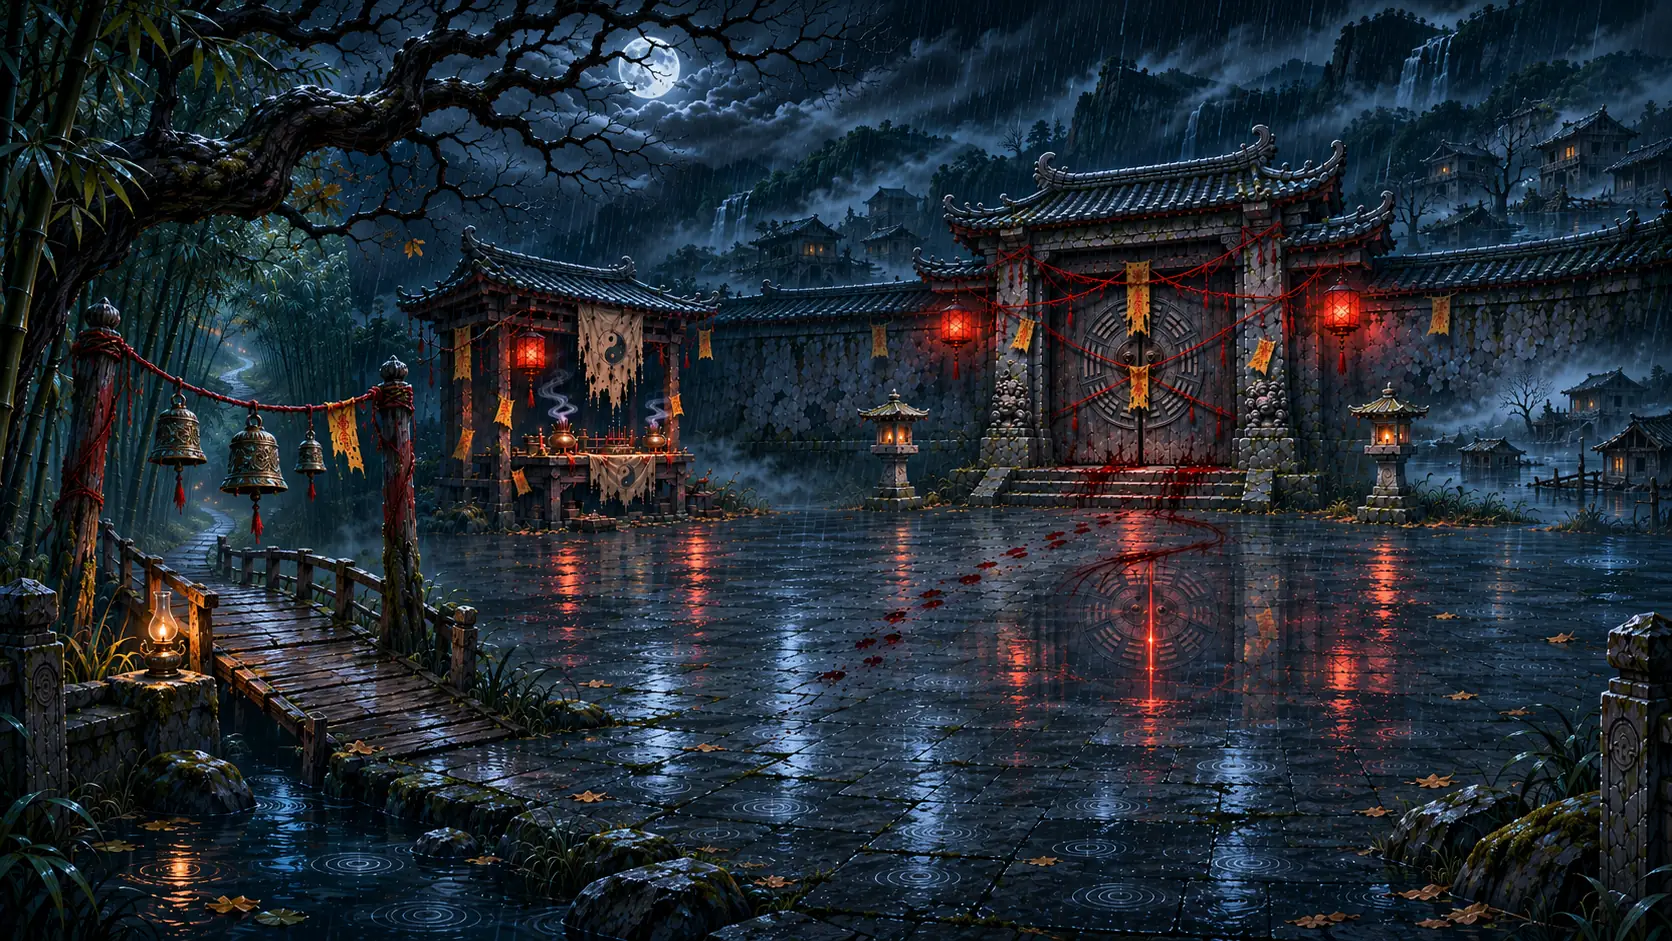
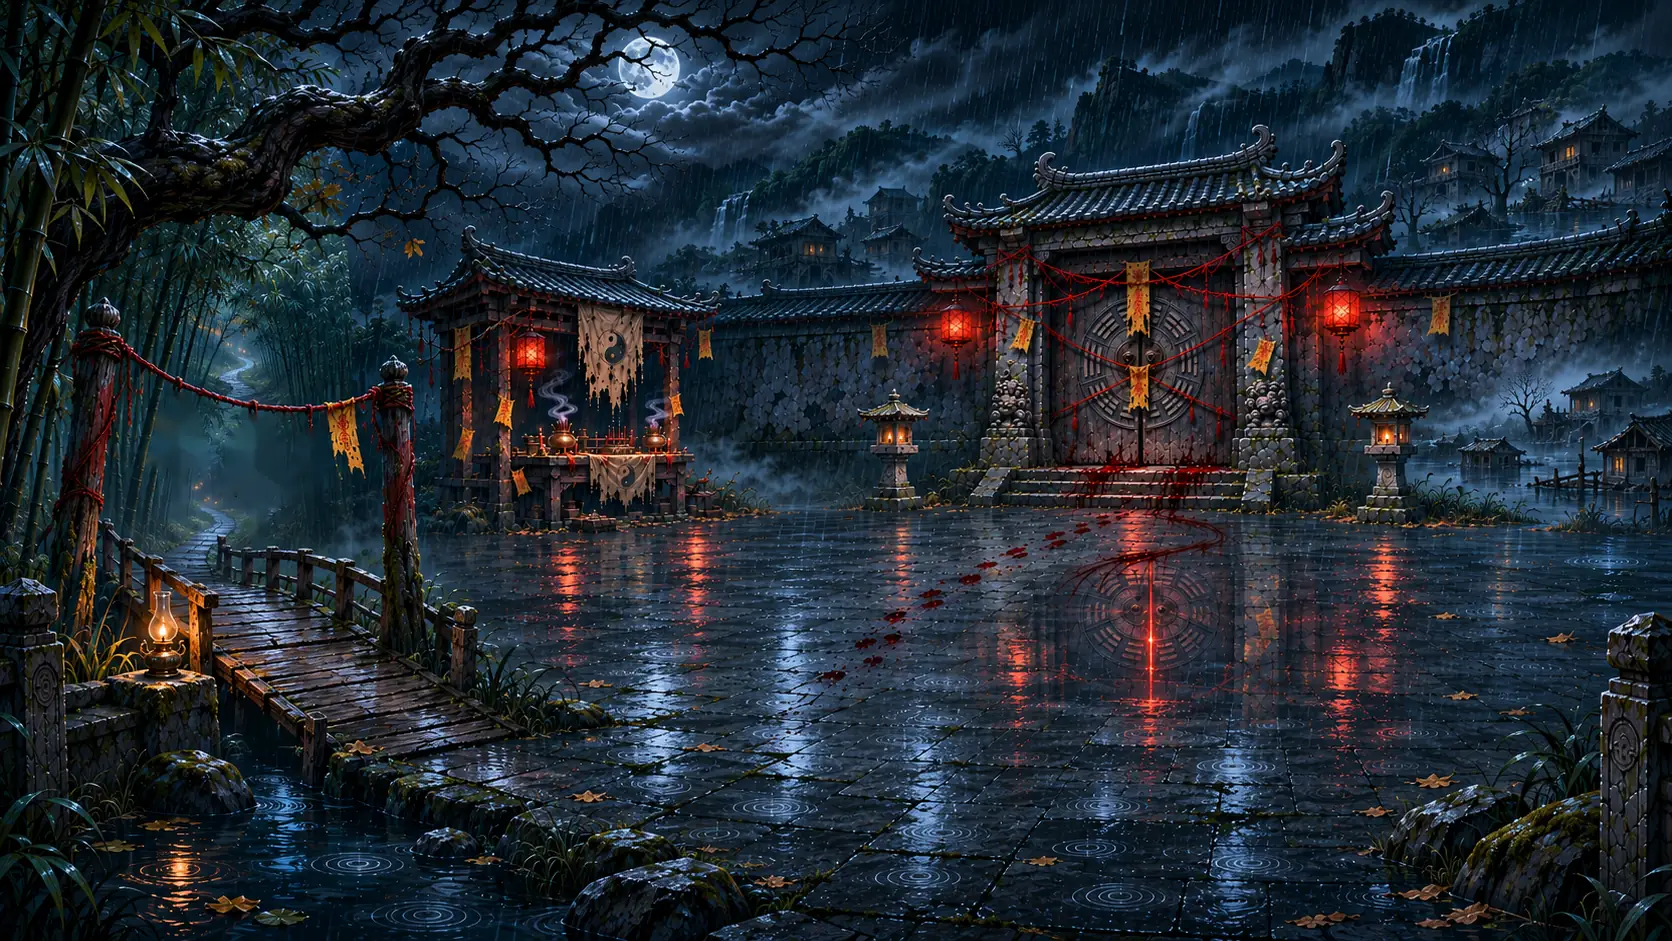
Sanh: chuong rung khi bam Xuat Tran, cua bung + khoi den khi bam Quy Mon Quan

Changed region(s): [[0.0933, 0.4315, 0.2177, 0.5547]]

diff --git a/game/index.html b/game/index.html
@@ -1842,6 +1842,18 @@ html body #lobby .lbgrid.g7>[data-lb=inv]:before,html body #lobby .lbgrid.g7>[da
 html body #lobby .lbgrid.g7>[data-lb=inv]:before{display:none}
 @media (max-height:430px) and (min-width:640px){html body #lobby .lbgrid.lbgrid.g7 .lbt{flex-direction:row!important;gap:8px!important}html body #lobby .lbgrid.g7 .lbt i{font-size:clamp(16px,6vh,26px)!important}html body #lobby .lbgrid.g7 .lbt b{font-size:clamp(9px,3.4vh,13px)!important}}
 @media (max-width:639px){html body #lobby .lbgrid.g7 .lbt i{font-size:16px!important}html body #lobby .lbgrid.g7 .lbt b{font-size:9px!important}}
+/* hiệu ứng cảnh: chuông rung (Xuất Trận), cửa bung + khói đen (Quỷ Môn Quan) */
+#lbStage .lbbell{position:absolute;background:center/100% 100% no-repeat;pointer-events:none;z-index:1;animation:lbidle 4.4s ease-in-out infinite}
+#lbStage .lbbell-c{animation-delay:-1.3s}#lbStage .lbbell-r{animation-delay:-2.6s}
+@keyframes lbidle{0%,100%{transform:rotate(-.7deg)}50%{transform:rotate(.7deg)}}
+@keyframes lbswing{0%{transform:rotate(0)}14%{transform:rotate(10deg)}32%{transform:rotate(-8deg)}50%{transform:rotate(6deg)}68%{transform:rotate(-4deg)}84%{transform:rotate(2deg)}100%{transform:rotate(0)}}
+#lbStage.bring .lbbell-l{animation:lbswing 1.15s ease-out}#lbStage.bring .lbbell-c{animation:lbswing 1.3s ease-out .06s}#lbStage.bring .lbbell-r{animation:lbswing .95s ease-out .12s}
+#lbStage .lbdin{position:absolute;left:62.9%;top:27.5%;width:10.9%;height:21.9%;z-index:1;pointer-events:none;background:radial-gradient(ellipse at 50% 105%,#4a0c10 0,#12060a 38%,#030204 75%)}
+#lbStage .lbleaf{position:absolute;inset:0;z-index:1;pointer-events:none;background:url(assets/ui/lobby/sanh.webp) 0 0/100% 100% no-repeat;transition:transform .55s cubic-bezier(.2,.85,.25,1)}
+#lbStage .lbleaf-l{clip-path:polygon(62.9% 27.5%,68.1% 27.5%,68.1% 49.4%,62.9% 49.4%);transform-origin:62.9% 38%}
+#lbStage .lbleaf-r{clip-path:polygon(68.1% 27.5%,73.8% 27.5%,73.8% 49.4%,68.1% 49.4%);transform-origin:73.8% 38%}
+#lbStage.dopen .lbleaf-l{transform:scaleX(.7) skewY(-3deg)}#lbStage.dopen .lbleaf-r{transform:scaleX(.7) skewY(3deg)}
+#lbStage #lbFx{position:absolute;inset:0;width:100%;height:100%;z-index:4;pointer-events:none}
 </style>
 </head>
 <body>
@@ -1929,9 +1941,9 @@ html body #lobby .lbgrid.g7>[data-lb=inv]:before{display:none}
 <section id="lobby" class="screen" hidden>
  <div id="lbStage" aria-label="Sảnh Khử Tà Diệt Ma">
   <img id="lbArt" src="assets/ui/lobby/sanh.webp" alt="" draggable="false">
-  <canvas id="lbHero" width="480" height="400" aria-hidden="true"></canvas>
+  <i class="lbbell lbbell-l" style="left:8.672%;top:41.552%;width:3.947%;height:13.496%;transform-origin:51.5% 3.9%;background-image:url(assets/ui/lobby/chuong_l.webp)" aria-hidden="true"></i><i class="lbbell lbbell-c" style="left:12.978%;top:43.783%;width:4.486%;height:14.453%;transform-origin:49.3% 2.9%;background-image:url(assets/ui/lobby/chuong_c.webp)" aria-hidden="true"></i><i class="lbbell lbbell-r" style="left:17.404%;top:45.484%;width:2.333%;height:8.289%;transform-origin:48.7% 6.4%;background-image:url(assets/ui/lobby/chuong_r.webp)" aria-hidden="true"></i><i class="lbdin" aria-hidden="true"></i><i class="lbleaf lbleaf-l" aria-hidden="true"></i><i class="lbleaf lbleaf-r" aria-hidden="true"></i><canvas id="lbHero" width="480" height="400" aria-hidden="true"></canvas><canvas id="lbFx" aria-hidden="true"></canvas>
   <div class="lbsp lbsp-b" id="lbBridge"><button type="button" class="lbz" aria-label="Xuất Trận" title="Xuất Trận: chọn ải"></button><button type="button" class="lbtag">Xuất Trận</button></div>
-  <div class="lbsp lbsp-d" id="lbDoor"><i class="lbtal" aria-hidden="true"></i><button type="button" class="lbz lbt" data-lb="amgioi" aria-label="Quỷ Môn Quan" title="Quỷ Môn Quan: Âm Giới"></button><button type="button" class="lbtag lbt" data-lb="amgioi">Quỷ Môn Quan</button></div>
+  <div class="lbsp lbsp-d" id="lbDoor"><i class="lbtal" aria-hidden="true"></i><button type="button" class="lbz" aria-label="Quỷ Môn Quan" title="Quỷ Môn Quan: Âm Giới"></button><button type="button" class="lbtag">Quỷ Môn Quan</button></div>
  </div>
  <canvas id="lbBg" width="640" height="400"></canvas>
  <div class="lb">
@@ -5110,10 +5122,28 @@ function lbStageFit(){const L=$('#lobby'),st=$('#lbStage');if(!L||!st||L.hidden)
  const target=vh-barH-Math.max(12,vh*0.08);let off=H*0.72-target;off=Math.max(0,Math.min(off,H-vh));
  st.style.width=W+'px';st.style.height=H+'px';st.style.left=((vw-W)/2)+'px';st.style.top=(-off)+'px';st.style.setProperty('--sh',H+'px')}
 if(window.ResizeObserver)new ResizeObserver(lbStageFit).observe($('#lobby'));addEventListener('resize',lbStageFit);setInterval(lbStageFit,1000);
-(function(){const hot=(el,on)=>el.classList.toggle('hot',on);
+/* hiệu ứng canvas #lbFx: sóng chuông + tia vàng (cầu), khói đen tràn từ cửa (cổng) */
+const LBFX={p:[],on:0,t:0};
+function lbFxSize(){const c=$('#lbFx'),st=$('#lbStage');if(!c||!st)return null;const w=Math.min(1600,Math.max(320,st.clientWidth)),h=Math.round(w/LB_AR);if(c.width!==w||c.height!==h){c.width=w;c.height=h}return {c,w,h,k:w/1672}}
+function lbFxLoop(now){const z=lbFxSize();if(!z)return;const dt=Math.min(.05,(now-LBFX.t)/1000||.016);LBFX.t=now;const g=z.c.getContext('2d');g.clearRect(0,0,z.w,z.h);
+ LBFX.p=LBFX.p.filter(p=>(p.a+=dt)<p.life);
+ for(const p of LBFX.p){const u=p.a/p.life;
+  if(p.k==='smoke'){p.x+=p.vx*dt*z.k;p.y+=p.vy*dt*z.k;p.vx*=.992;p.vy*=.985;p.vy+=p.g*dt;const r=(p.r0+(p.r1-p.r0)*Math.min(1,u*1.2))*z.k,al=Math.sin(Math.min(1,u*1.6)*Math.PI*.5)*(1-u)*p.al;if(al<=.003)continue;const gr=g.createRadialGradient(p.x*z.k,p.y*z.k,0,p.x*z.k,p.y*z.k,r);gr.addColorStop(0,`rgba(${p.c},${al})`);gr.addColorStop(.55,`rgba(${p.c},${al*.6})`);gr.addColorStop(1,`rgba(${p.c},0)`);g.fillStyle=gr;g.beginPath();g.arc(p.x*z.k,p.y*z.k,r,0,TAU);g.fill()}
+  else if(p.k==='ring'){if(u<0)continue;const r=(6+p.R*Math.min(1,u))*z.k;g.strokeStyle=`rgba(255,216,120,${(1-u)*.8})`;g.lineWidth=Math.max(1,(2.4-1.4*u)*z.k);g.beginPath();g.arc(p.x*z.k,p.y*z.k,r,0,TAU);g.stroke()}
+  else{p.x+=p.vx*dt;p.y+=p.vy*dt;p.vy+=60*dt;g.fillStyle=`rgba(255,${200+Math.random()*40|0},${110+Math.random()*50|0},${(1-u)*.9})`;g.fillRect(p.x*z.k-1,p.y*z.k-1,Math.max(1.5,2.2*z.k),Math.max(1.5,2.2*z.k))}}
+ if(LBFX.p.length)requestAnimationFrame(lbFxLoop);else{LBFX.on=0;g.clearRect(0,0,z.w,z.h)}}
+function lbFxKick(){if(!LBFX.on){LBFX.on=1;LBFX.t=performance.now();requestAnimationFrame(lbFxLoop)}}
+function lbBellFx(){const lite=LOWFX||MOBILE,bs=[[178,455],[254,455],[310,475]];for(const [x,y] of bs){for(let i=0;i<2;i++)LBFX.p.push({k:'ring',x,y,R:i?46:30,a:-i*.16,life:.85});for(let i=0;i<(lite?5:10);i++)LBFX.p.push({k:'spark',x:x+(Math.random()-.5)*30,y:y+(Math.random()-.5)*20,vx:(Math.random()-.5)*50,vy:-20-Math.random()*40,a:0,life:.7+Math.random()*.6})}lbFxKick()}
+function lbDoorFx(){const lite=LOWFX||MOBILE,n=lite?60:120;
+ /* khói đen lăn từ khe cửa ra bậc đá và sân (lan ngang là chính, bốc lên nhẹ), kèm vài dải khói tím nhạt cho có khối */
+ for(let i=0;i<n;i++){const side=Math.random()<.5?-1:1,d=Math.random()*.45;LBFX.p.push({k:'smoke',x:1139+(Math.random()-.5)*90,y:410+Math.random()*50,vx:side*(30+Math.random()*120),vy:-(6+Math.random()*26)+(Math.random()<.4?40:0),g:4,r0:24+Math.random()*16,r1:90+Math.random()*90,al:1,c:Math.random()<.3?'30,12,36':'3,2,5',a:-d,life:2.6+Math.random()*1.2})}
+ for(let i=0;i<(lite?8:18);i++)LBFX.p.push({k:'smoke',x:1139+(Math.random()-.5)*80,y:370+Math.random()*80,vx:(Math.random()-.5)*60,vy:-(26+Math.random()*34),g:-6,r0:16,r1:50+Math.random()*40,al:.7,c:'70,40,84',a:-(Math.random()*.8),life:1.8+Math.random()});lbFxKick()}
+(function(){const hot=(el,on)=>el.classList.toggle('hot',on);let busy=0;const st=$('#lbStage');
  for(const id of ['lbBridge','lbDoor']){const el=$('#'+id);if(!el)continue;for(const t of el.querySelectorAll('.lbz,.lbtag')){t.addEventListener('pointerdown',()=>hot(el,true));t.addEventListener('pointerenter',()=>hot(el,true));for(const ev of ['pointerup','pointerleave','pointercancel'])t.addEventListener(ev,()=>hot(el,false))}}
- const go=()=>{hot($('#lbBridge'),true);setTimeout(()=>hot($('#lbBridge'),false),350);$('#lbGo').click()};
- for(const t of $('#lbBridge').querySelectorAll('.lbz,.lbtag'))t.addEventListener('click',go)})();
+ const go=()=>{if(busy)return;busy=1;st.classList.remove('bring');void st.offsetWidth;st.classList.add('bring');lbBellFx();setTimeout(()=>st.classList.remove('bring'),1500);setTimeout(()=>{busy=0;$('#lbGo').click()},720)};
+ const door=()=>{if(busy)return;busy=1;st.classList.add('dopen');lbDoorFx();setTimeout(()=>st.classList.remove('dopen'),2600);setTimeout(()=>{busy=0;const t=document.querySelector('#lbGrid [data-lb="amgioi"]');if(t)t.click()},1250)};
+ for(const t of $('#lbBridge').querySelectorAll('.lbz,.lbtag'))t.addEventListener('click',go);
+ for(const t of $('#lbDoor').querySelectorAll('.lbz,.lbtag'))t.addEventListener('click',door)})();
 $('#lbGear').addEventListener('click',e=>{e.stopPropagation();$('.lbfoot').classList.toggle('open')});
 $('#lobby').addEventListener('click',e=>{const t=e.target.closest('.lbt');if(!t)return;const k=t.dataset.lb;
  if(k==='luyencong'){startTraining();return}

diff --git a/cong_cu/claude/lobby_bells.py b/cong_cu/claude/lobby_bells.py
@@ -1,0 +1,33 @@
+# Tách 3 quả chuông khỏi ảnh nền sảnh (GrabCut) -> sprite RGBA + nền đã lấp chỗ chuông (inpaint). Gốc 1672x941.
+import cv2,numpy as np,sys
+SRC='/home/user/hoathan/nguon/master_amgioi/sanh_cau_go_cong_bat_quai_goc.png';OUT='/home/user/hoathan/nguon/lobby_anim/'
+im=cv2.imread(SRC)
+Z=lambda pts:[(120+x/4,380+y/4) for x,y in pts]
+# viền vẽ tay trên ảnh phóng 4x (gốc cắt tại 120,380): thân chuông + tua đỏ
+P={'l':(Z([(206,58),(264,58),(266,100),(300,125),(315,160),(322,250),(336,292),(348,318),(344,338),(250,344),(150,342),(114,330),(120,308),(140,270),(145,200),(158,140),(190,112),(206,98)]),
+      Z([(220,326),(250,326),(252,375),(262,470),(240,535),(214,490),(220,430),(226,380)]),(179,396)),
+   'c':(Z([(505,140),(565,140),(572,185),(615,210),(632,260),(640,330),(655,400),(672,425),(668,445),(560,455),(430,452),(400,432),(410,410),(425,380),(432,320),(440,250),(460,215),(500,195),(506,170)]),
+      Z([(520,445),(560,445),(562,520),(575,580),(552,655),(522,612),(528,540),(525,500)]),(254,416)),
+   'r':(Z([(742,205),(782,205),(784,235),(810,262),(815,300),(822,345),(825,365),(745,378),(698,368),(702,345),(710,290),(722,262),(742,240)]),
+      Z([(752,372),(778,372),(776,420),(785,470),(768,490),(752,455),(758,420)]),(310,433))}
+full=np.zeros(im.shape[:2],np.uint8);meta={}
+for k,(body,tas,piv) in P.items():
+    mk=np.zeros(im.shape[:2],np.uint8)
+    for poly in (body,tas):cv2.fillPoly(mk,[np.round(np.array(poly)).astype(np.int32)],1)
+    full|=mk
+    a=cv2.GaussianBlur(mk.astype(np.float32),(0,0),0.8)
+    ys,xs=np.where(mk>0);pad=3;X0,Y0,X1,Y1=xs.min()-pad,ys.min()-pad,xs.max()+pad+1,ys.max()+pad+1
+    rgba=np.dstack([im[Y0:Y1,X0:X1],(a[Y0:Y1,X0:X1]*255).astype(np.uint8)])
+    cv2.imwrite(OUT+f'chuong_{k}.png',rgba);meta[k]=dict(x=int(X0),y=int(Y0),w=int(X1-X0),h=int(Y1-Y0),px=int(piv[0]-X0),py=int(piv[1]-Y0))
+    print(k,meta[k])
+# nền không chuông: nở mặt nạ 3 px rồi inpaint
+dil=cv2.dilate(full,np.ones((5,5),np.uint8))
+bgi=cv2.inpaint(im,dil*255,5,cv2.INPAINT_TELEA);cv2.imwrite(OUT+'nen_khong_chuong.png',bgi)
+# xem thử
+prev=np.full(im.shape,90,np.uint8)
+for k in P:
+    s=cv2.imread(OUT+f'chuong_{k}.png',cv2.IMREAD_UNCHANGED);m=meta[k];a=s[...,3:4]/255.0
+    prev[m['y']:m['y']+m['h'],m['x']:m['x']+m['w']]=(s[...,:3]*a+prev[m['y']:m['y']+m['h'],m['x']:m['x']+m['w']]*(1-a)).astype(np.uint8)
+cv2.imwrite('/tmp/claude-0/-home-user-hoathan/5b1798db-21c6-5052-8b46-d0f605bb00ba/scratchpad/bells_mask.png',cv2.resize(prev[380:570,120:350],None,fx=3,fy=3,interpolation=cv2.INTER_CUBIC))
+cv2.imwrite('/tmp/claude-0/-home-user-hoathan/5b1798db-21c6-5052-8b46-d0f605bb00ba/scratchpad/bells_bg.png',cv2.resize(bgi[380:570,120:350],None,fx=3,fy=3,interpolation=cv2.INTER_CUBIC))
+import json;json.dump(meta,open(OUT+'meta.json','w'))

diff --git a/CLAUDE.md b/CLAUDE.md
@@ -849,3 +849,4 @@ Quyết định (chủ game không chọn riêng nên lấy đề xuất): hình
 - (26/11) **Tiêu đề TÊN NHÂN VẬT / MÔN PHÁI (chủ game):** viết hoa, +1 cỡ (15/13/12 px theo chiều cao màn, trước 14/12/11), đổi kiểu chữ Noto Serif → Be Vietnam Pro 800 giãn chữ (`.cxh1`, khối CSS cuối `#create`). Tiêu đề khác (Võ học tiêu biểu...) giữ nguyên. Đã đo 9 cỡ không tràn, mở ảnh 1280×596 và 550×278.
 - (26/11) **Tiêu đề TÊN NHÂN VẬT/MÔN PHÁI trả về kiểu cũ (Noto Serif, không viết hoa), chỉ +0,5 px** (14,5/12,5/11,5; chủ game duyệt, bản viết hoa Be Vietnam Pro đã bỏ). **Sảnh: tiêu đề 'Khử Tà Diệt Ma' nằm trên vệt mực đen** (`.lbtitle:before` = `vet_den.webp`, độ đục 0,6; chữ ở `:after`); chữ phụ nút Âm Giới rút gọn 'Mốc tầng N · không giới hạn lượt' cho khỏi tràn dòng ở 550×278. Đã soi sảnh 550×278, 956×440, 1280×720.
 - (26/11) **SẢNH SÂN KHẤU (chủ game gửi ảnh cầu gỗ + cổng bát quái 1672×941):** `#lbStage` (JS `lbStageFit` đặt rộng/cao/trái/trên theo kiểu cover, dịch dọc để chân nhân vật nằm trên thanh chức năng) chứa ảnh `ui/lobby/sanh.webp` (275 KB, gốc `nguon/master_amgioi/sanh_cau_go_cong_bat_quai_goc.png`), `#lbHero` (canvas 480×400, chân tại 47%/72%, vũ khí lớp phái qua `window.__lbW` + vũ khí và trang phục đang mặc), 2 vùng bấm `.lbz` cắt bằng `clip-path` theo % ảnh: cầu (tâm ~17%,69%) = **Xuất Trận** (gọi `#lbGo`: màn chọn ải; kết toán rương trước nếu có), cổng (tâm ~68%,39%) = **Quỷ Môn Quan** (`.lbt data-lb=amgioi`: Âm Giới). Nhãn `.lbtag` ở đầu cầu (23%,61%) và dưới bậc đá (68%,56,5%); chạm cầu: nhãn sáng vàng; chạm cổng: bùa giữa cửa (`.lbtal`) lóe đỏ. `#lbGo`, `#lbAm` ẩn (giữ trong DOM); `#lbCont` chỉ hiện khi có ải dở. HUD là lớp riêng (`.lb{pointer-events:none}`), thanh chức năng 6 nút một hàng sát đáy cao `--barH`. Chuông trong nền không rung (chưa có sprite chuông tách). Ngân sách mở game nâng 5,8→6,1 MB (đo 6,01). Đã chạm thử cầu, cổng, 2 nhãn ở 811×260 và 1280×720: đúng màn, quay lại bằng nút Về sảnh; ảnh `nguon/tham_chieu/sanh_san_khau_*.png`.
+- (26/11) **Hiệu ứng sảnh (chủ game):** bấm cầu Xuất Trận → 3 chuông (`.lbbell`, sprite tách bằng `cong_cu/claude/lobby_bells.py`: viền vẽ tay + inpaint nền, ra `ui/lobby/chuong_{l,c,r}.webp`, nền `sanh.webp` nay là bản ĐÃ XÓA chuông, gốc nguyên bản vẫn ở `nguon/master_amgioi/sanh_cau_go_cong_bat_quai_goc.png`) lắc 1,2 s + sóng vàng + tia lửa (canvas `#lbFx`), 0,72 s sau vào màn chọn ải; chuông cũng đung đưa nhẹ lúc rảnh. Bấm cổng Quỷ Môn Quan → 2 cánh cửa (`.lbleaf`, cắt từ chính ảnh nền) co ngang bung ra lộ khe tối, khói đen/tím lăn ra bậc đá và sân (`lbDoorFx`), 1,25 s sau mở Âm Giới. Điện thoại/Giảm hiệu ứng dùng ít hạt hơn. Đã chạy 1280×720 (mở ảnh khói) và 811×260 (không lỗi, đúng màn); chuông chỉ soi ảnh tĩnh, chưa xem khung giữa lúc lắc.
